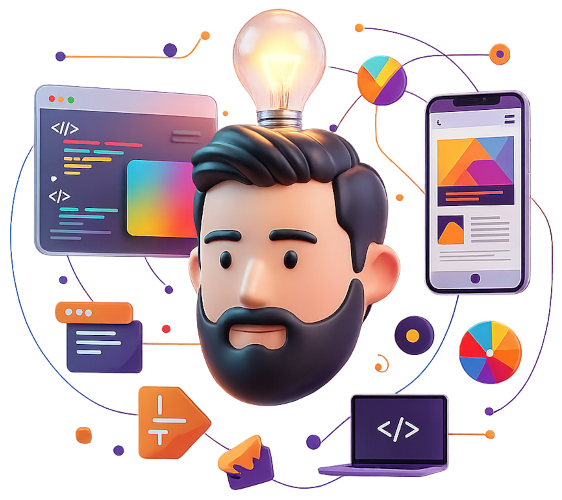
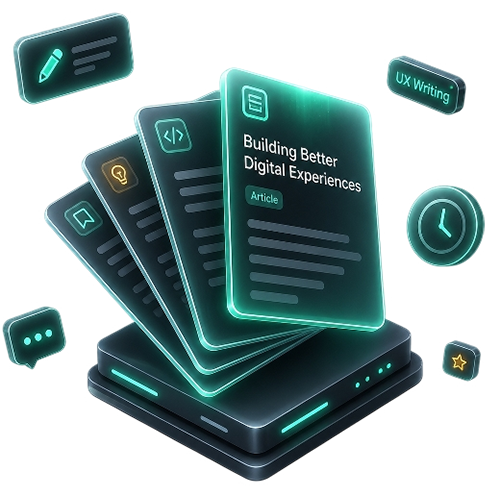
Design update

diff --git a/nuxt.config.ts b/nuxt.config.ts
@@ -108,56 +108,6 @@ export default defineNuxtConfig({
         { rel: 'apple-touch-icon', sizes: '180x180', href: '/apple-touch-icon.png' },
         { rel: 'manifest', href: '/site.webmanifest' },
       ],
-      style: [
-        {
-          innerHTML: `
-.app-loader__wrapper {
-  position: fixed;
-  top: 0;
-  left: 0;
-  width: 100%;
-  height: 100%;
-  background: radial-gradient(circle at center, #151515 0%, #0c0c0c 100%);
-  display: flex;
-  justify-content: center;
-  align-items: center;
-  transition: opacity 0.5s ease;
-  pointer-events: none;
-  z-index: 9999;
-}
-
-.app-loader__spinner {
-  width: 180px;
-  height: 180px;
-  border: 12px solid #d941b0;
-  border-top: 12px solid #ffffff;
-  border-radius: 50%;
-  animation: app-loader-spin 1s linear infinite;
-  position: relative;
-}
-
-.app-loader__spinner::after {
-  content: '';
-  position: absolute;
-  inset: 30px;
-  border: 6px solid #f22ee5;
-  border-top: 6px solid #ffffff;
-  border-radius: 50%;
-  animation: app-loader-spin-reverse 1.5s linear infinite;
-}
-
-@keyframes app-loader-spin {
-  0% { transform: rotate(0deg); }
-  100% { transform: rotate(360deg); }
-}
-
-@keyframes app-loader-spin-reverse {
-  0% { transform: rotate(0deg); }
-  100% { transform: rotate(-360deg); }
-}
-          `,
-        },
-      ],
     },
   },
 
@@ -188,7 +138,7 @@ export default defineNuxtConfig({
 
   devtools: {
     timeline: {
-      enabled: true
-    }
-  }
+      enabled: true,
+    },
+  },
 });

diff --git a/src/view/components/splash/splash.scss b/src/view/components/splash/splash.scss
@@ -26,7 +26,7 @@
   &__main {
     display: flex;
     gap: var(--spacing-4xl);
-    animation: fade-up 1s ease-out both;
+    z-index: 1;
   }
 
   &__animation {
@@ -64,11 +64,17 @@
   &__vue {
     font-size: 80px;
     font-weight: 900;
-    background: linear-gradient(180deg, #fff 0%, #7bb5e8 60%, #de7de3 100%);
+    background: linear-gradient(
+      90deg,
+      #8aec0b 0%,
+      #188a01 25%,
+      #8aec0b 50%,
+      #188a01 75%,
+      #8aec0b 100%
+    );
     background-size: 100% 200%;
     background-clip: text;
     -webkit-text-fill-color: transparent;
-    animation: subtle-gradient 6s ease infinite;
   }
 
   &__dot {
@@ -238,18 +244,6 @@
 
 /* Animations */
 
-@keyframes fade-up {
-  from {
-    opacity: 0;
-    transform: translateY(16px);
-  }
-
-  to {
-    opacity: 1;
-    transform: translateY(0);
-  }
-}
-
 @keyframes float-soft {
   0%,
   100% {
@@ -258,20 +252,6 @@
 
   50% {
     transform: translateY(-10px);
-  }
-}
-
-@keyframes subtle-gradient {
-  0% {
-    background-position: 50% 0%;
-  }
-
-  50% {
-    background-position: 50% 100%;
-  }
-
-  100% {
-    background-position: 50% 0%;
   }
 }
 

diff --git a/src/view/components/pipeline/parts/pipeline-boarding-pass/pipeline-boarding-pass.vue b/src/view/components/pipeline/parts/pipeline-boarding-pass/pipeline-boarding-pass.vue
@@ -40,7 +40,7 @@
   });
 
   const qrLink = computed(() => {
-    return `https://api.qrserver.com/v1/create-qr-code/?size=80x80&color=64CDF4&bgcolor=151515&data=${encodeURIComponent(
+    return `https://api.qrserver.com/v1/create-qr-code/?size=80x80&color=aaaaaa&bgcolor=151515&data=${encodeURIComponent(
       `http://macrulez.ru/${locale.value}`,
     )}`;
   });
@@ -198,8 +198,8 @@
       <div class="pipeline-boarding-pass__barcode-number">{{ barcodeNumber }}</div>
       <div class="pipeline-boarding-pass__barcode-note">
         <svg width="16" height="16" viewBox="0 0 24 24" fill="none">
-          <circle cx="12" cy="12" r="10" stroke="#5dfafc" stroke-width="2" />
-          <text x="12" y="16" text-anchor="middle" font-size="12" fill="#5dfafc">i</text>
+          <circle cx="12" cy="12" r="10" stroke="#d6e297" stroke-width="2" />
+          <text x="12" y="16" text-anchor="middle" font-size="12" fill="#d6e297">i</text>
         </svg>
         {{ t('pipeline-demo.boardingPass.saveNote') }}
       </div>

diff --git a/src/view/components/travelshop-project/parts/travelshop-intro/travelshop-intro.scss b/src/view/components/travelshop-project/parts/travelshop-intro/travelshop-intro.scss
@@ -135,9 +135,9 @@
       left: 50%;
       bottom: 0;
       border-radius: 27px;
-      border: solid 2px var(--color-1);
+      border: solid 2px var(--color-7);
       background-color: var(--color-bg-primary);
-      color: var(--color-1);
+      color: var(--color-7);
       font-weight: 400;
       cursor: pointer;
       z-index: 100;
@@ -168,7 +168,7 @@
       mask-size: contain;
       mask-repeat: no-repeat;
       mask-position: center;
-      background: var(--color-1);
+      background: var(--color-7);
       transition: background-color 0.2s;
     }
   }
@@ -304,7 +304,6 @@
       width: 100%;
       height: 6px;
       border-radius: 3px;
-      background: #2d3748;
       outline: none;
       transition: background-color 0.2s;
       margin: 0;

diff --git a/src/view/components/stuff/parts/toolz/toolz.vue b/src/view/components/stuff/parts/toolz/toolz.vue
@@ -9,7 +9,6 @@
   import Stronghold from '@/view/assets/images/toolz/stronghold.webp';
   import TinySvg from '@/view/assets/images/toolz/tiny_svg.webp';
   import UnitForge from '@/view/assets/images/toolz/unit_forge.webp';
-  import LinkArrow from '@/view/ui/ui-link-arrow/ui-link-arrow.vue';
   import { useI18n } from '~/composables/useI18n';
 
   const { t } = useI18n();
@@ -87,7 +86,6 @@
                   <span class="toolz__modules-item-title">
                     <span class="toolz__modules-item-link-wrapper">
                       {{ item.title }}
-                      <LinkArrow class="toolz__modules-item-link-arrow" />
                     </span>
                   </span>
                 </a>

diff --git a/src/view/components/arts/arts.scss b/src/view/components/arts/arts.scss
@@ -1,7 +1,7 @@
 .arts {
   position: relative;
   padding: clamp(120px, 8vw, 160px) clamp(12px, 2vw, 24px);
-  background-color: #1a0125;
+  background-color: #0c0b0c;
 
   &::before {
     content: '';
@@ -113,7 +113,7 @@
     position: relative;
     overflow: hidden;
     border-radius: 8px;
-    background: linear-gradient(227deg, #cc0b98, #03babd);
+    background: linear-gradient(227deg, #cc0b98, #78cf05);
     background-size: 400% 400%;
     animation: progress-animation 5s ease infinite;
     padding: 12px 24px;
@@ -175,6 +175,10 @@
       pointer-events: none;
       user-select: none;
     }
+  }
+
+  &__projects {
+    @include container-lg;
   }
 
   &__projects,

diff --git a/src/view/styles/variables.scss b/src/view/styles/variables.scss
@@ -1,11 +1,11 @@
 :root {
   /* NEW STYLES VARIABLES */
-  --color-1: #d941b0;
-  --color-2: #f22ee5;
+  --color-1: #78cf05;
+  --color-2: #8aec0b;
   --color-3: #051a26;
   --color-4: #adb9c1;
   --color-5: #f22613;
-  --color-6: #5dfafc;
+  --color-6: #d6e297;
   --color-7: #363035;
   --color-8: #616a70;
   --color-background: #151515;
@@ -34,8 +34,8 @@
 
   /* Цветовая палитра */
   --color-primary: #2c3e50;
-  --color-secondary: #3498db;
-  --color-secondary-hover: #1181c5;
+  --color-secondary: #8aec0b;
+  --color-secondary-hover: #78cf05;
   --color-accent-ui: #bd0e3d;
   --color-accent-purple: #9b59b6;
   --color-accent-purple-dark: #8d00e1;

diff --git a/src/view/components/arts/parts/art-item/art-item.scss b/src/view/components/arts/parts/art-item/art-item.scss
@@ -15,13 +15,10 @@
   &::before {
     content: '';
     position: absolute;
-    top: 0;
-    left: 0;
-    right: 0;
-    bottom: 0;
+    inset: 0;
     background: radial-gradient(
       circle at var(--glow-x) var(--glow-y),
-      rgba(52, 152, 219, 0.1) 0%,
+      rgb(52 152 219 / 10%) 0%,
       transparent 60%
     );
     opacity: 0;
@@ -33,9 +30,9 @@
 
   &:hover {
     box-shadow:
-      0 10px 25px rgba(0, 0, 0, 0.1),
-      0 0 40px rgba(52, 152, 219, 0.15);
-    border-color: #3498db;
+      0 10px 25px rgb(0 0 0 / 10%),
+      0 0 40px rgb(52 152 219 / 15%);
+    border-color: var(--color-2);
 
     &::before {
       opacity: 1;

diff --git a/src/view/components/stuff/parts/npm-packages/npm-packages.vue b/src/view/components/stuff/parts/npm-packages/npm-packages.vue
@@ -5,7 +5,6 @@
   import { useNpmPackages, type NpmPackageItem } from './npm-items';
 
   import npmLogo from '@/view/assets/images/npm-logo.svg';
-  import LinkArrow from '@/view/ui/ui-link-arrow/ui-link-arrow.vue';
   import UiLoading from '~/components/ui/UiLoading.vue';
   import { useI18n } from '~/composables/useI18n';
 
@@ -52,7 +51,6 @@
               <div class="npm-packages__item-name">
                 <span class="npm-packages__item-link-wrapper">
                   {{ pkg.title }}
-                  <LinkArrow class="npm-packages__item-link-arrow" />
                 </span>
               </div>
             </a>

diff --git a/app.vue b/app.vue
@@ -1,21 +1,5 @@
-<script setup lang="ts">
-  import { ref, onMounted } from 'vue';
-
-  const loaderVisible = ref(true);
-
-  onMounted(() => {
-    // Даем Nuxt подхватить стили/данные и потом убираем лоадер
-    setTimeout(() => {
-      loaderVisible.value = false;
-    }, 300);
-  });
-</script>
-
 <template>
   <div class="app-root">
     <NuxtPage />
-    <div v-show="loaderVisible" id="app-loader" class="app-loader__wrapper">
-      <div class="app-loader__spinner"></div>
-    </div>
   </div>
 </template>

diff --git a/composables/useFeatures.ts b/composables/useFeatures.ts
@@ -31,7 +31,6 @@ export interface FeatureData {
   imageHorizontal: string;
   title: string;
   shortTitle: string;
-  subtitle: string;
   description: string;
   features: {
     title: string;
@@ -112,7 +111,6 @@ export function useFeatures() {
         imageHorizontal,
         title: t(`${i18nKey}.title`),
         shortTitle: t(`${i18nKey}.shortTitle`),
-        subtitle: t(`${i18nKey}.subtitle`),
         description: t(`${i18nKey}.description`),
         features: {
           title: t(`${i18nKey}.features.title`),

diff --git a/src/view/components/examples/parts/feature-item/feature-item.vue b/src/view/components/examples/parts/feature-item/feature-item.vue
@@ -93,12 +93,6 @@
             >
               <div class="feature-item__side-block-header">
                 <div class="feature-item__title">{{ feature.title }}</div>
-                <div
-                  class="feature-item__subtitle"
-                  :style="{ color: feature.accentColor }"
-                >
-                  {{ feature.subtitle }}
-                </div>
                 <div class="feature-item__description">{{ feature.description }}</div>
               </div>
             </Teleport>
